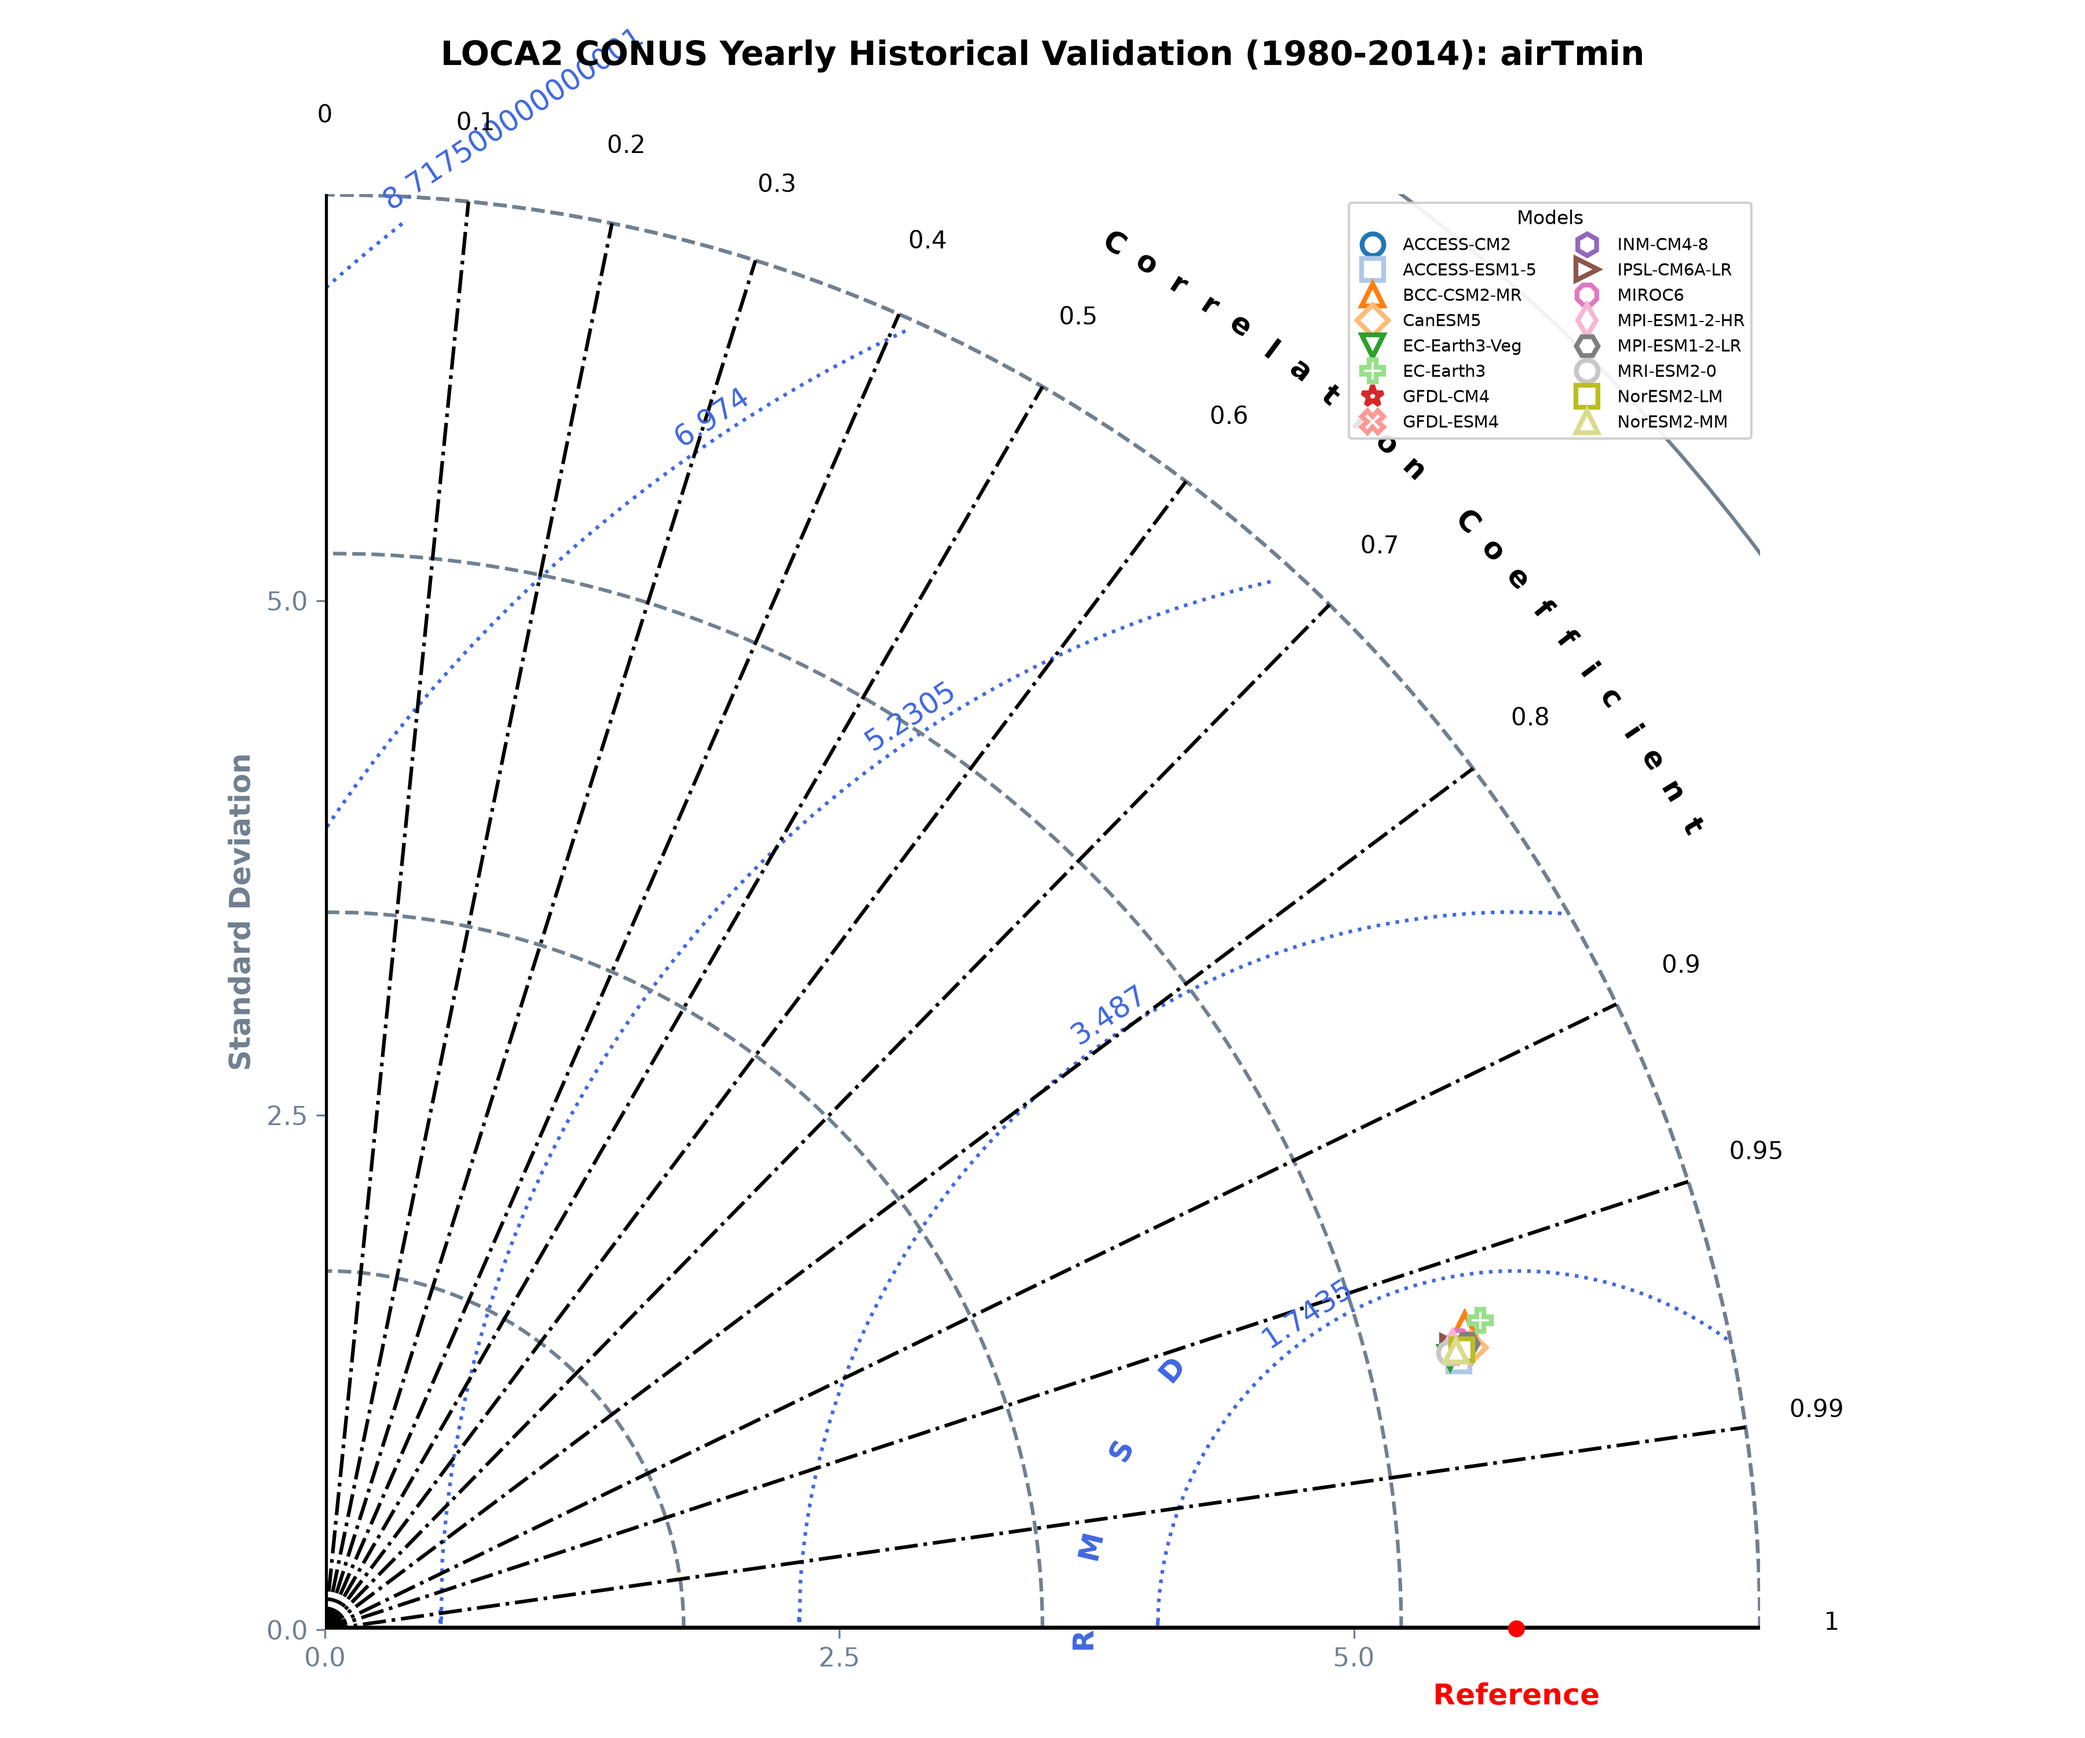
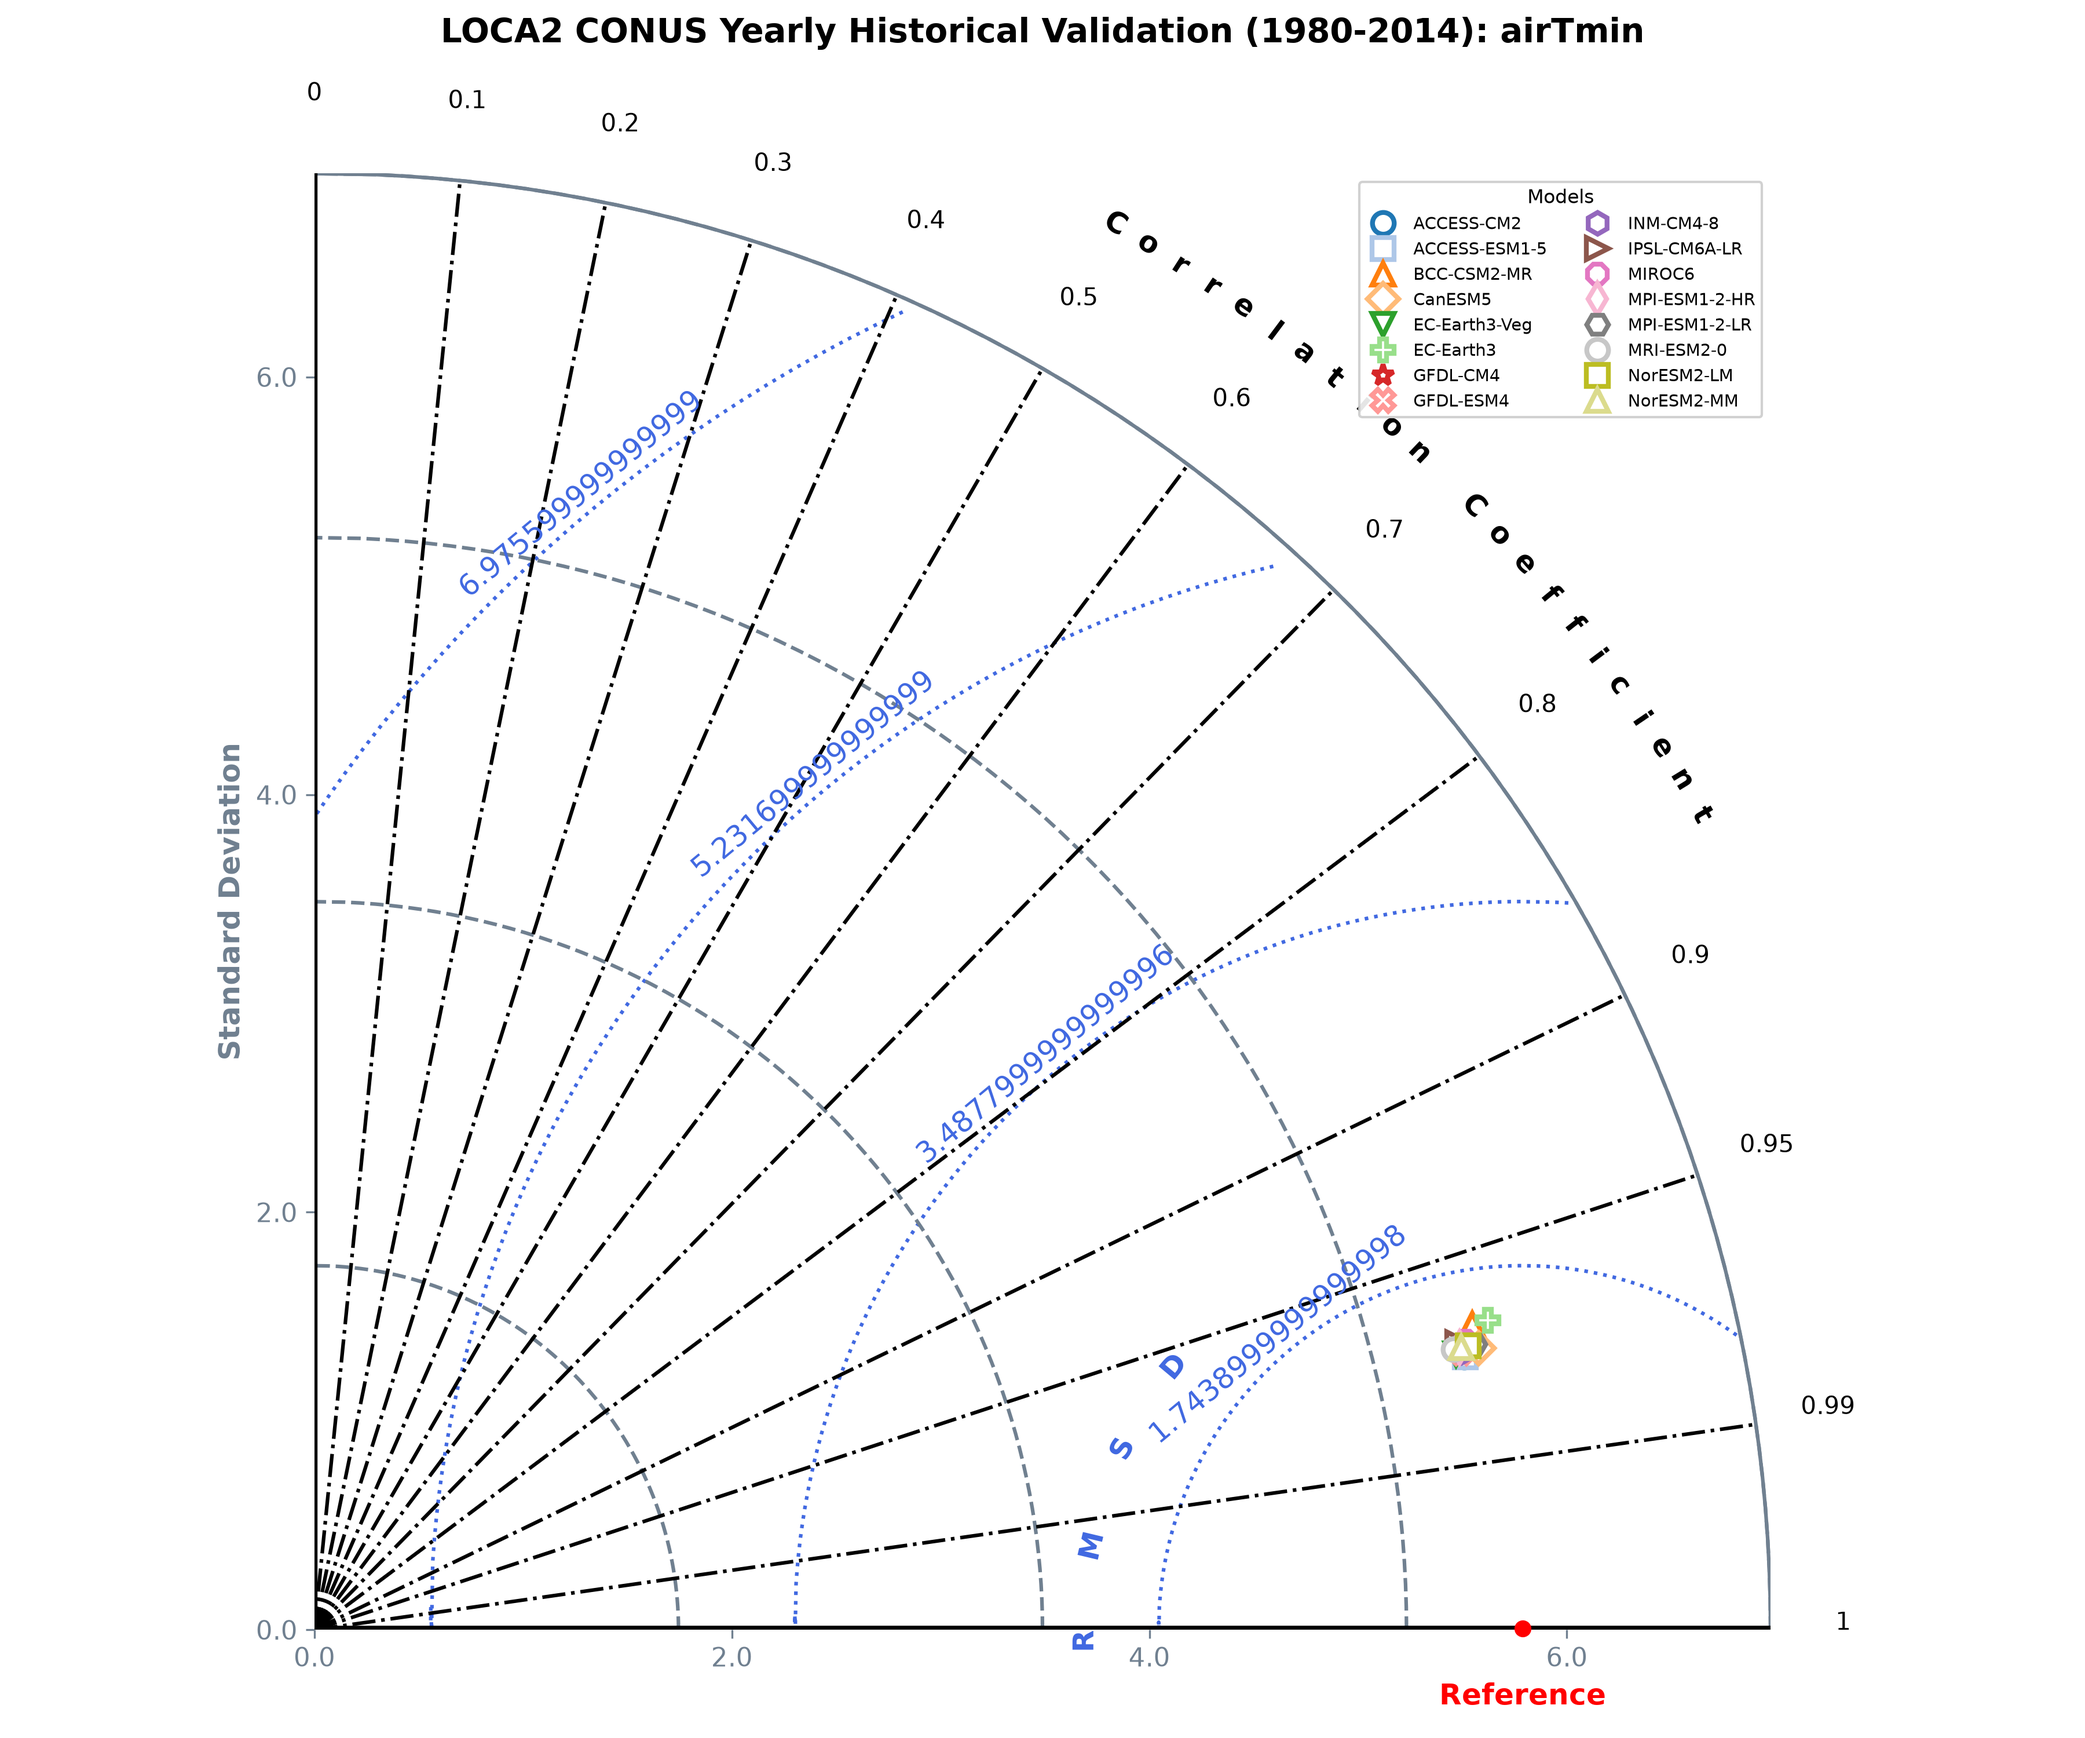
Changed precip to annual-mean and normalized units to a daily rate

diff --git a/conus_yearly_ncl_method.py b/conus_yearly_ncl_method.py
@@ -42,9 +42,10 @@ NON_CONUS = {
 variables_config = {
     "airTmax": "mean",
     "airTmin": "mean",
-    "precip": "sum"
+    "precip": "mean"
 }
 
+# known "no data" sentinels that show up
 FILL_VALUE = -9999.0
 FILL_ABS_THRESHOLD = 1e10
 
@@ -78,11 +79,12 @@ def load_conus_boundary(shapefile_path=SHAPEFILE_PATH):
 
 
 def mask_fill_values(da):
+    """Replace known no-data sentinels with real NaN."""
     return da.where((da != FILL_VALUE) & (np.abs(da) < FILL_ABS_THRESHOLD))
 
 
 def clip_to_conus(da_or_ds, conus_geom, lat_name=None, lon_name=None, all_touched=True):
-    """Clip an xarray DataArray/Dataset to the CONUS boundary."""
+    # Clip an xarray DataArray/Dataset to the CONUS boundary
     if lat_name is None:
         lat_name = 'lat' if 'lat' in da_or_ds.coords else ('latitude' if 'latitude' in da_or_ds.coords else None)
     if lon_name is None:
@@ -100,6 +102,7 @@ def clip_to_conus(da_or_ds, conus_geom, lat_name=None, lon_name=None, all_touche
     obj = da_or_ds.rio.write_crs("EPSG:4326", inplace=False)
     obj = obj.rio.set_spatial_dims(x_dim=lon_name, y_dim=lat_name, inplace=False)
 
+    # Force the nodata value used for out-of-geometry pixels to be NaN
     if isinstance(obj, xr.Dataset):
         for v in obj.data_vars:
             obj[v] = obj[v].rio.write_nodata(np.nan)
@@ -110,26 +113,29 @@ def clip_to_conus(da_or_ds, conus_geom, lat_name=None, lon_name=None, all_touche
 
 
 def normalize_precip_units(da, label):
-    """Express precipitation as a monthly accumulation (mm/month), matching
-    the convention assumed by aggregate_yearly's annual sum.
-    """
+    # Express precipitation as a daily rate (mm/day), matching the
     units = da.attrs.get('units')
     sample_mean = float(da.isel(time=slice(0, 1)).mean(skipna=True))
     print(f"    [units check] {label}: units='{units}', sample monthly mean={sample_mean:.4f}")
 
     flux_units = {'kg m-2 s-1', 'kg/m2/s', 'kg m^-2 s^-1', 'mm s-1', 'mm/s'}
     per_day_units = {'mm/day', 'mm day-1', 'mm d-1'}
+    per_month_units = {'mm/month', 'mm month-1'}
 
     if units in flux_units:
-        print(f"    [units check] {label}: converting flux -> mm/month")
-        return da * 86400 * da.time.dt.days_in_month
+        print(f"    [units check] {label}: converting flux -> mm/day")
+        return da * 86400
     if units in per_day_units:
-        print(f"    [units check] {label}: converting mm/day -> mm/month")
-        return da * da.time.dt.days_in_month
+        print(f"    [units check] {label}: already mm/day, no conversion needed")
+        return da
+    if units in per_month_units:
+        print(f"    [units check] {label}: converting mm/month -> mm/day")
+        return da / da.time.dt.days_in_month
     return da
 
 
 def get_area_weights(da, lat_name=None):
+    # cos(latitude) area weights, broadcast to da's full shape.
     if lat_name is None:
         lat_name = 'lat' if 'lat' in da.coords else 'latitude'
     w = np.cos(np.deg2rad(da[lat_name]))
@@ -138,6 +144,7 @@ def get_area_weights(da, lat_name=None):
 
 
 def weighted_taylor_stats(t, r, w):
+    # Area-weighted centered pattern statistics
     wsum = np.sum(w)
     tmean = np.sum(w * t) / wsum
     rmean = np.sum(w * r) / wsum
@@ -159,13 +166,17 @@ def weighted_taylor_stats(t, r, w):
     return float(sdev_t), float(sdev_r), pc, crmsd
 
 
-def aggregate_yearly(ds, operation):
-    ds_sliced = ds.sel(time=slice('1980-01-01', '2014-12-31'))
+def aggregate_yearly(da, operation):
+    # Slice to the 1980-2014 period and resample to annual resolution
+    da_sliced = da.sel(time=slice('1980-01-01', '2014-12-31'))
 
     if operation == "mean":
-        return ds_sliced.resample(time='YS').mean(dim='time', skipna=True)
+        def _weighted_annual_mean(group):
+            weights = group.time.dt.days_in_month
+            return group.weighted(weights).mean(dim='time', skipna=True)
+        return da_sliced.resample(time='YS').map(_weighted_annual_mean)
     elif operation == "sum":
-        return ds_sliced.resample(time='YS').sum(dim='time', skipna=True)
+        return da_sliced.resample(time='YS').sum(dim='time', skipna=True)
     else:
         raise ValueError(f"Unknown aggregation operation: {operation}")
 
@@ -186,19 +197,18 @@ for var, operation in variables_config.items():
 
     print(f"Loading Livneh monthly files for [{var}]...")
     with xr.open_mfdataset(livneh_pattern, combine='by_coords', data_vars='all') as livneh_ds:
-        livneh_ds = livneh_ds.copy()
-        # Scrub fill values BEFORE unit conversion / aggregation.
-        livneh_ds[var] = mask_fill_values(livneh_ds[var])
+        livneh_da = livneh_ds[var]
+        # Scrub fill values before agg
+        livneh_da = mask_fill_values(livneh_da)
 
         if var == 'precip':
-            livneh_ds[var] = normalize_precip_units(livneh_ds[var], "Livneh")
+            livneh_da = normalize_precip_units(livneh_da, "Livneh")
 
-        livneh_yearly = aggregate_yearly(livneh_ds, operation)
+        livneh_yearly = aggregate_yearly(livneh_da, operation)
 
         print(f"Clipping Livneh [{var}] to CONUS")
         livneh_yearly = clip_to_conus(livneh_yearly, conus_geom)
-        # pull into memory now so the data survives past the file closing
-        obs_da = livneh_yearly[var].load()
+        obs_da = livneh_yearly.load()
 
     print(f"Yearly Livneh [{var}] dims: {dict(obs_da.sizes)}")
 
@@ -219,7 +229,7 @@ for var, operation in variables_config.items():
     obs_wvar = np.sum(obs_weights_clean * (obs_clean - obs_wmean) ** 2) / obs_wsum
     baseline_sdev = float(np.sqrt(obs_wvar))
 
-    # initialize SkillMetrics tracking lists w/ baseline's perfect score
+    # initialize SkillMetrics tracking lists w/ baseline perfect score
     sdev_list = [baseline_sdev]
     crmsd_list = [0.0]
     cc_list = [1.0]
@@ -236,17 +246,16 @@ for var, operation in variables_config.items():
 
         try:
             with xr.open_mfdataset(model_pattern, combine='by_coords', data_vars='all') as model_ds:
-                model_ds = model_ds.copy()
-                # Scrub fill values BEFORE unit conversion / aggregation.
-                model_ds[var] = mask_fill_values(model_ds[var])
+                model_da_raw = model_ds[var]
+                model_da_raw = mask_fill_values(model_da_raw)
 
                 if var == 'precip':
-                    model_ds[var] = normalize_precip_units(model_ds[var], name)
+                    model_da_raw = normalize_precip_units(model_da_raw, name)
 
-                model_yearly = aggregate_yearly(model_ds, operation)
+                model_yearly = aggregate_yearly(model_da_raw, operation)
                 # clip the model grid to CONUS before regridding
                 model_yearly = clip_to_conus(model_yearly, conus_geom)
-                model_da = model_yearly[var].load()
+                model_da = model_yearly.load()
 
             obs_regrid = obs_da.interp_like(model_da, method='nearest')
 
@@ -326,7 +335,7 @@ for var, operation in variables_config.items():
         plt.title(f'LOCA2 CONUS Yearly Historical Validation (1980-2014): {var}',
                   y=1.08, fontsize=14, fontweight='bold')
         plt.tight_layout()
-        output_plot = os.path.join(OUTPUT_DIR, f"conus_{var}_yearly_nclmethod.png")
+        output_plot = os.path.join(OUTPUT_DIR, f"conus_{var}_yearly_taylor.png")
         plt.savefig(output_plot, dpi=300)
         plt.close()
 
